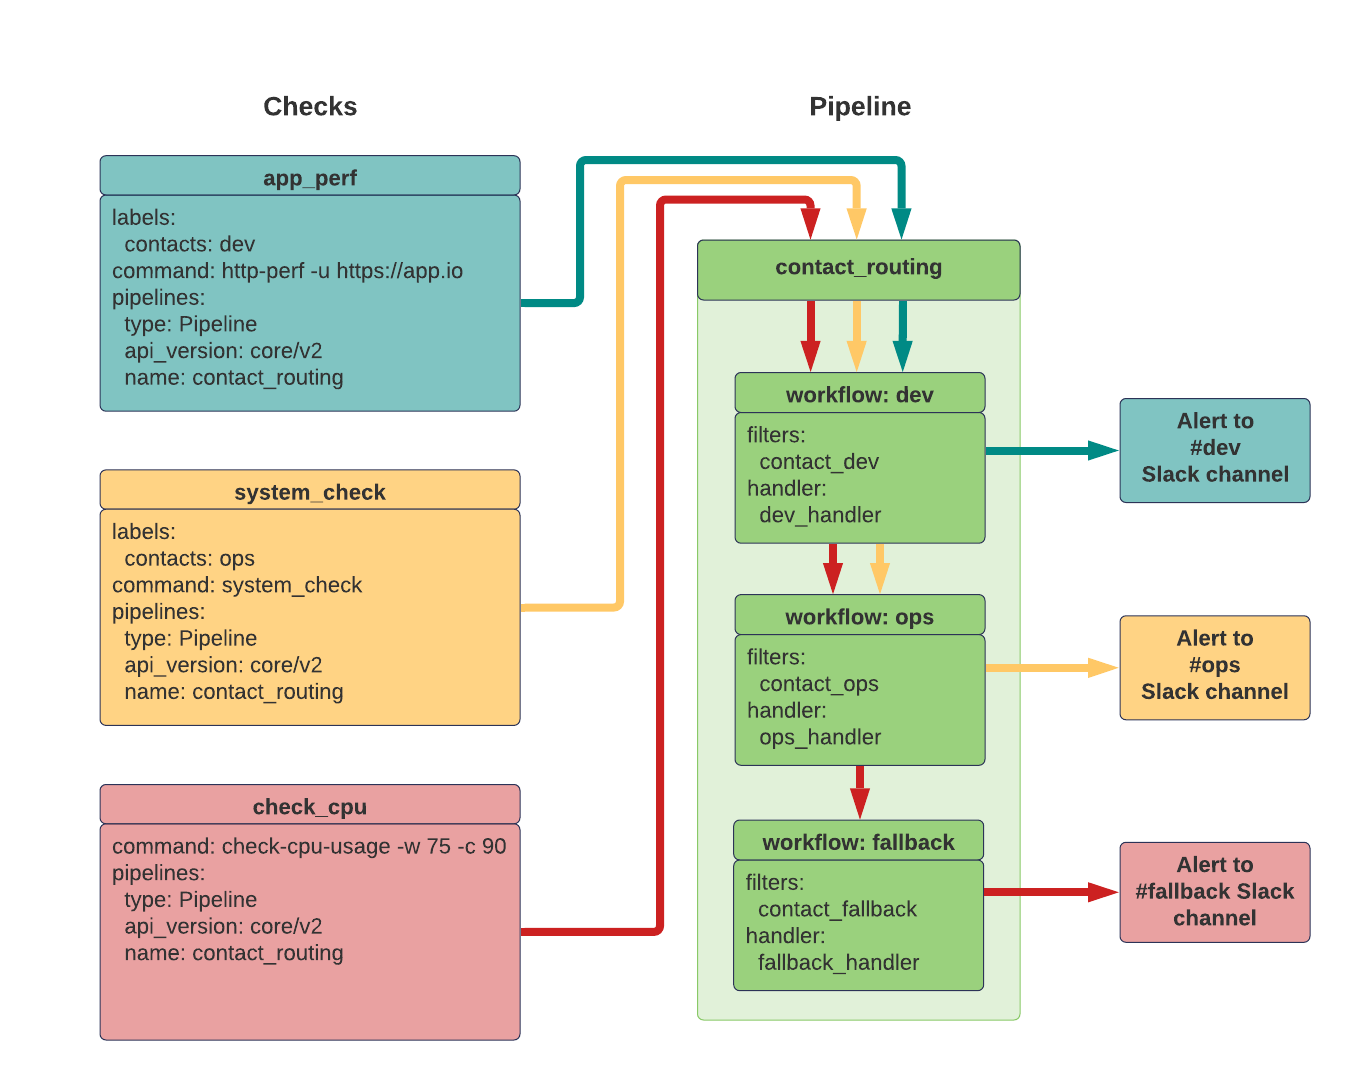
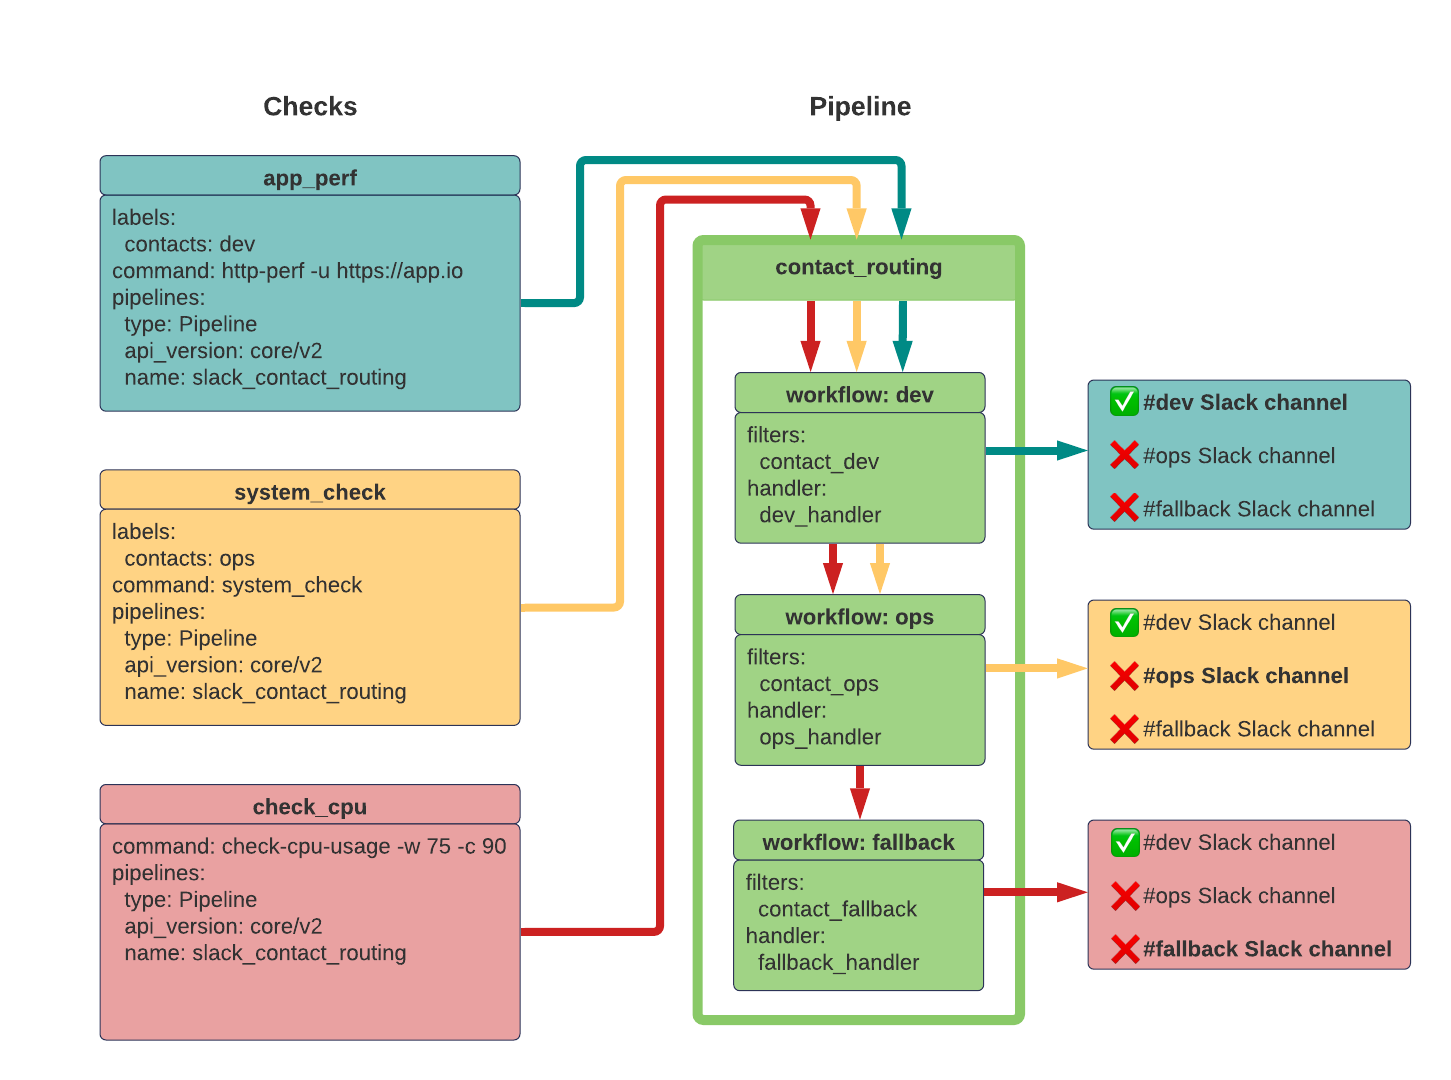
Further tinkering with guide text and replace other two diagrams

diff --git a/content/sensu-go/6.5/observability-pipeline/observe-filter/route-alerts.md b/content/sensu-go/6.5/observability-pipeline/observe-filter/route-alerts.md
@@ -587,11 +587,12 @@ Resolve the events by sending the same API requests with `status` set to `0`.
 
 ## Manage contact labels in checks and entities
 
-To assign an alert to a contact, add a `contacts` label to the check or entity.
-The `contacts` labels should be `ops` and `dev`.
-You'll also need to update the check to use your `slack` handler.
+To assign a check's alerts to a contact, you can add the `contacts` labels to checks or entities.
+You'll also need to update the checks to use your `slack_contact_routing` pipeline.
 
-For example, you can update the `check_cpu` check created in [Monitor server resources][9] to include the `ops` and `dev` contacts and the `slack` handler.
+### Route contacts with checks
+
+To test contact routing with check-generated events, update the `check_cpu` check created in [Monitor server resources][9] to include the `ops` and `dev` contacts and the `slack` handler.
 
 Use sensuctl to open the check in a text editor:
 
@@ -604,15 +605,37 @@ Edit the check metadata to add the following labels:
 {{< language-toggle >}}
 
 {{< code yml >}}
----
 labels:
-  contacts: ops, dev
+  contacts: dev, ops
 {{< /code >}}
 
 {{< code json >}}
 {
   "labels": {
-    "contacts": "ops, dev"
+    "contacts": "dev, ops"
+  }
+}
+{{< /code >}}
+
+{{< /language-toggle >}}
+
+Update the pipelines array to add `slack_contact_routing`:
+
+{{< language-toggle >}}
+
+{{< code yml >}}
+pipelines:
+  - type: Pipeline
+    api_version: core/v2
+    name: slack_contact_routing
+{{< /code >}}
+
+{{< code json >}}
+{
+  "pipelines": {
+    "type": "Pipeline",
+    "api_version": "core/v2",
+    "name": "slack_contact_routing"
   }
 }
 {{< /code >}}
@@ -627,15 +650,7 @@ For example:
 Updated /api/core/v2/namespaces/default/checks/check_cpu
 {{< /code >}}
 
-Next, run this sensuctl command to add the `slack` handler:
-
-{{< code shell >}}
-sensuctl check set-handlers check_cpu slack
-{{< /code >}}
-
-Again, you will receive an `Updated` confirmation message.
-
-To view the updated resource definition for `check_cpu` and confirm that it includes the `contacts` labels and `slack` handler, run:
+To view the updated resource definition for `check_cpu` and confirm that it includes the `contacts` labels and `slack_contact_routing` pipeline, run:
 
 {{< language-toggle >}}
 
@@ -660,20 +675,23 @@ api_version: core/v2
 metadata:
   created_by: admin
   labels:
-    contacts: ops, dev
+    contacts: dev, ops
   name: check_cpu
   namespace: default
 spec:
   check_hooks: null
   command: check-cpu-usage -w 75 -c 90
   env_vars: null
-  handlers:
-  - slack
+  handlers: []
   high_flap_threshold: 0
   interval: 60
   low_flap_threshold: 0
   output_metric_format: ""
   output_metric_handlers: null
+  pipelines:
+  - api_version: core/v2
+    name: slack_contact_routing
+    type: Pipeline
   proxy_entity_name: ""
   publish: true
   round_robin: false
@@ -693,25 +711,30 @@ spec:
   "type": "CheckConfig",
   "api_version": "core/v2",
   "metadata": {
-    "created_by": "admin",
-    "labels": {
-      "contacts": "ops, dev"
-    },
     "name": "check_cpu",
-    "namespace": "default"
+    "namespace": "default",
+    "labels": {
+      "contacts": "dev, ops"
+    },
+    "created_by": "admin"
   },
   "spec": {
     "check_hooks": null,
     "command": "check-cpu-usage -w 75 -c 90",
     "env_vars": null,
-    "handlers": [
-      "slack"
-    ],
+    "handlers": [],
     "high_flap_threshold": 0,
     "interval": 60,
     "low_flap_threshold": 0,
     "output_metric_format": "",
     "output_metric_handlers": null,
+    "pipelines": [
+      {
+        "api_version": "core/v2",
+        "name": "slack_contact_routing",
+        "type": "Pipeline"
+      }
+    ],
     "proxy_entity_name": "",
     "publish": true,
     "round_robin": false,
@@ -736,21 +759,22 @@ spec:
 **PRO TIP**: You can also [view complete resource definitions in the Sensu web UI](../../../web-ui/view-manage-resources/#view-resource-data-in-the-web-ui).
 {{% /notice %}}
 
-Now when the `check_cpu` check generates an incident, Sensu will filter the event according to the `contact_ops` and `contact_dev` event filters and send alerts to #alert-ops and #alert-dev accordingly.
+Now when the `check_cpu` check generates an event, Sensu will filter the event according to the `contact_dev` and `contact_ops` event filters and send alerts to the #devs and #ops Slack channels:
 
-{{< figure src="/images/contact-routing2.png" alt="Diagram that shows an event generated with a check label for the dev and ops teams, matched to the dev team and ops team handlers using contact filters, and routed to the Slack channels for dev and ops" link="/images/contact-routing2.png" target="_blank" >}}
-<!-- Diagram source: https://www.lucidchart.com/documents/edit/3cbd2ad3-92ed-48cc-bbaa-a97f53dae1ba -->
+{{< figure src="/images/contact_routing_pipeline_2.png" alt="Diagram that shows an event generated with a check label for the dev and ops teams, matched to the dev team and ops team handlers using contact filters, and routed to the Slack channels for dev and ops" link="/images/contact_routing_pipeline_2.png" target="_blank" >}}
+<!-- Diagram source: https://lucid.app/lucidchart/fa215a7d-f77e-45e7-a3c3-b6803b15bcd8/edit?viewport_loc=-244%2C-47%2C2219%2C1041%2C0_0&invitationId=inv_b74be97a-17a5-4e4d-b688-d1b8387fc4c8 -->
 
 ### Entities
 
-You can also specify contacts using an entity label.
+You can also specify contacts in entity labels instead of or in addition to check labels.
+The check definition should still include the pipeline.
 For more information about managing entity labels, read the [entity reference][10].
 
 If contact labels are present in both the check and entity, the check contacts override the entity contacts.
-In this example, the `dev` label in the check configuration overrides the `ops` label in the agent definition, resulting in an alert sent to #alert-dev but not to #alert-ops or #alert-all.
+In this example, the `dev` label in the check configuration overrides the `ops` label in the agent definition, resulting in an alert sent to #dev but not to #ops or #fallback:
 
-{{< figure src="/images/contact-routing3.png" alt="Diagram that shows that check labels override entity labels when both are present in an event" link="/images/contact-routing3.png" target="_blank" >}}
-<!-- Diagram source: https://www.lucidchart.com/documents/edit/da41741f-15c5-47f8-b2b4-9197593a67d8/0 -->
+{{< figure src="/images/contact_routing_pipeline_3.png" alt="Diagram that shows how check labels override entity labels when both are present in an event" link="/images/contact_routing_pipeline_3.png" target="_blank" >}}
+<!-- Diagram source: https://lucid.app/lucidchart/f8fc33b7-f9b3-45cc-bae8-444822f7e8cb/edit?viewport_loc=-221%2C-49%2C2219%2C1041%2C0_0&invitationId=inv_e623f4c9-d485-4a59-a1d6-fa1e9575b905 -->
 
 ## Next steps
 
